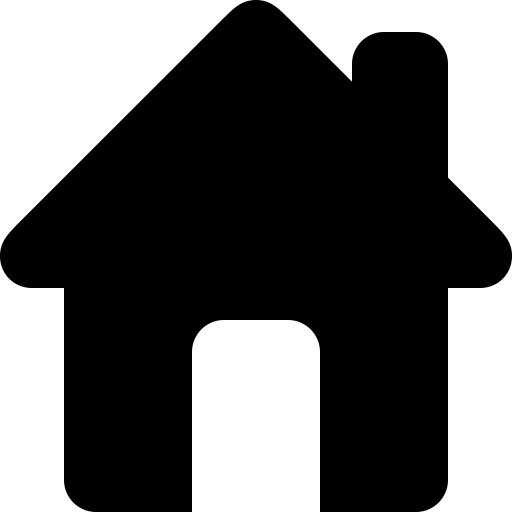
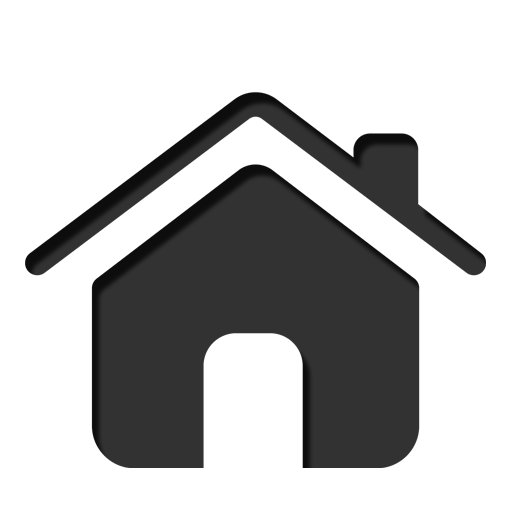
home button added

diff --git a/work/proverb-0.3/index.html b/work/proverb-0.3/index.html
@@ -11,21 +11,24 @@
 
 
 <body>
-  <div class="goHome">
-    <a href="../../index.html"><img src="home.png" style="width: 15px;"></a>
-  </div>
 
-<div class="texts">
-  <p class="pSource">Maori proverb </p>
-  <p class="pTranslation">Translation</p>
 
-  <div class="buttonActions">
+
+  <div class="texts">
     <a href="http://twitter.com/share"><img src="logoTwitter.png"></a>
-    <input type="button" onclick="getProverb()" value="new proverb" class="newProverb"> </input>
-  </div>
 
-</div>
+    <p class="pSource">Maori proverb </p>
+    <p class="pTranslation">Translation</p>
+    <div class="buttonActions">
 
+      <input type="button" onclick="getProverb()" value="new proverb" class="newProverb"> </input>
+    </div>
+
+    </div>
+
+    <div class="goHome">
+      <a href="../../index.html"><img src="home.png" style="width: 15px;"></a>
+    </div>
 
 
 

diff --git a/work/proverb-0.3/style.css b/work/proverb-0.3/style.css
@@ -26,3 +26,6 @@ input {
   font-weight: bold;
   color: black;
 }
+.goHome {
+  margin-top: 10%;
+}
